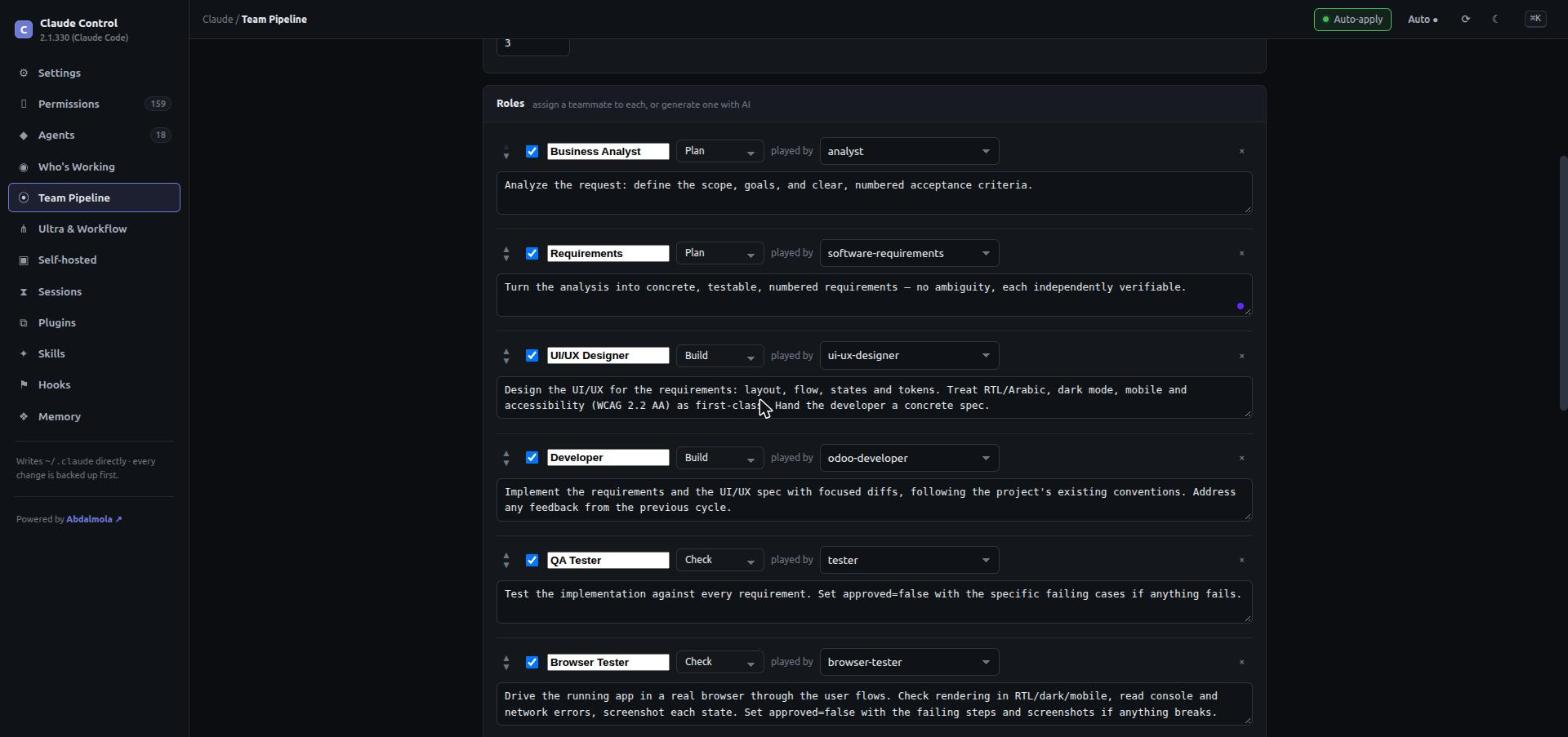
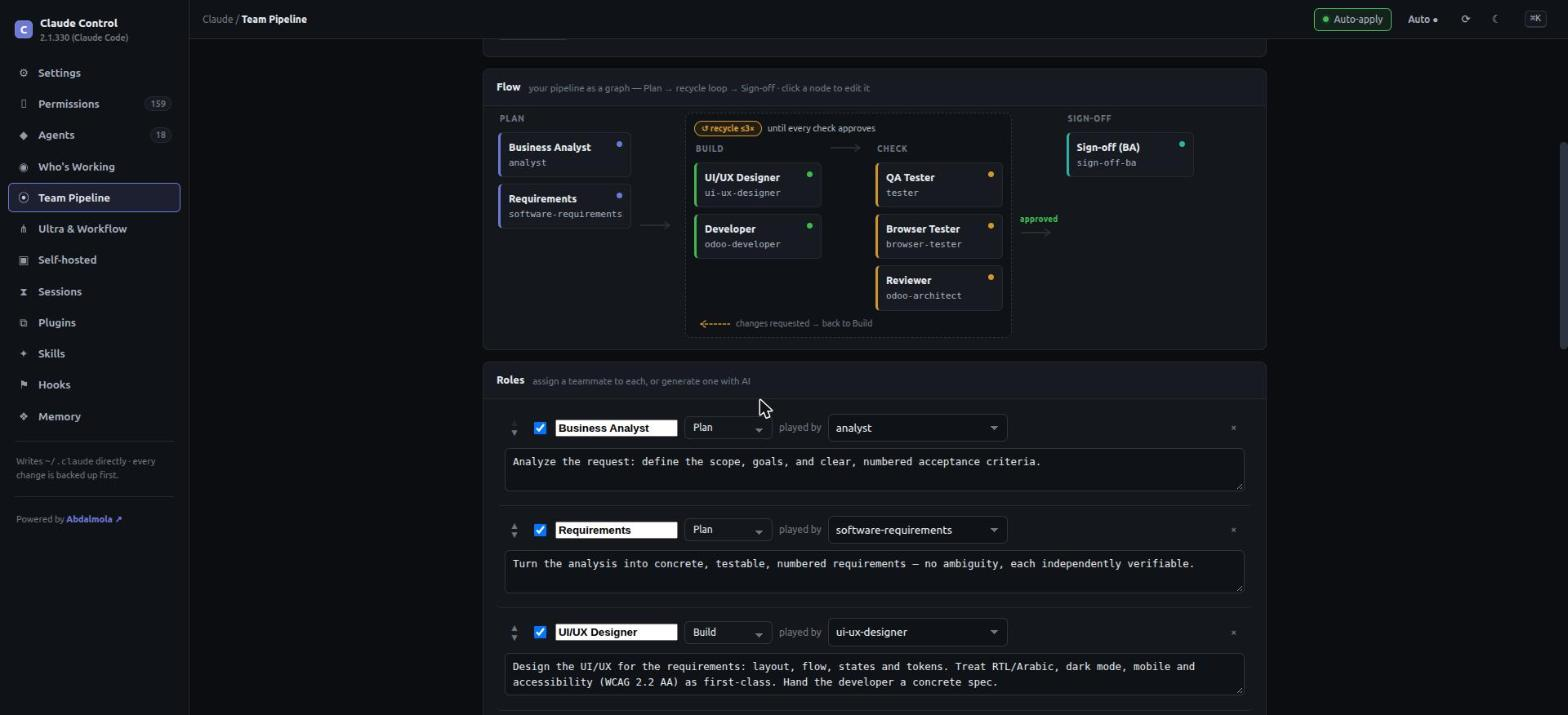
panel(team): flow-graph view of the pipeline
- new PipelineGraph component: Plan lane -> dashed recycle-loop bracketing
  Build + Check lanes with a return arrow -> Sign-off, each role a node
  colored by phase, agent shown, click a node to scroll+flash its row
- live preview above the roles editor; theme-aware tokens (light + dark)
- refresh README screenshot to the dark flow graph (odoo-engineering roster)

diff --git a/frontend/src/styles.css b/frontend/src/styles.css
@@ -25,6 +25,10 @@
   --ask-bg:    #d2992218;
   --deny:      #f05c5c;
   --deny-bg:   #f05c5c18;
+  --pg-plan:    #6e79d6;
+  --pg-build:   #3fb950;
+  --pg-check:   #d29922;
+  --pg-signoff: #2bb3a3;
   --shadow:    0 8px 30px rgba(0, 0, 0, 0.45);
   --radius:    8px;
   --radius-sm: 6px;
@@ -52,6 +56,10 @@
   --ask-bg:    #9a670012;
   --deny:      #cf222e;
   --deny-bg:   #cf222e10;
+  --pg-plan:    #4f5bd5;
+  --pg-build:   #1a7f37;
+  --pg-check:   #9a6700;
+  --pg-signoff: #0d9488;
   --shadow:    0 6px 24px rgba(20, 30, 50, 0.12);
 }
 
@@ -398,3 +406,59 @@ a.link:hover { text-decoration: underline; }
   .form-grid { grid-template-columns: 1fr; }
   .main { padding-inline: 16px; }
 }
+
+/* ------------------------------------------------------------------ *
+ * Team Pipeline — flow graph (nodes + recycle loop)
+ * ------------------------------------------------------------------ */
+.pg-wrap { overflow-x: auto; padding: 2px 2px 8px; }
+.pg-graph { display: flex; align-items: center; gap: 10px; min-width: min-content; }
+
+.pg-lane { display: flex; flex-direction: column; gap: 8px; align-self: flex-start; }
+.pg-lane-head {
+  font-size: 10px; font-weight: 700; letter-spacing: .09em; text-transform: uppercase;
+  color: var(--muted); padding-inline-start: 2px; margin-bottom: 1px;
+}
+
+.pg-node {
+  position: relative; text-align: start; cursor: pointer; font: inherit;
+  display: flex; flex-direction: column; gap: 2px;
+  background: var(--panel-2); color: var(--text);
+  border: 1px solid var(--border);
+  border-inline-start: 3px solid var(--c, var(--border-2));
+  border-radius: var(--radius-sm); padding: 8px 10px; min-width: 156px;
+  transition: border-color .12s ease, background .12s ease, transform .12s ease;
+}
+.pg-node:hover { background: var(--raised); border-color: var(--border-2); transform: translateY(-1px); }
+.pg-node:focus-visible { outline: 2px solid var(--accent); outline-offset: 1px; }
+.pg-node[data-type="plan"]    { --c: var(--pg-plan); }
+.pg-node[data-type="build"]   { --c: var(--pg-build); }
+.pg-node[data-type="check"]   { --c: var(--pg-check); }
+.pg-node[data-type="signoff"] { --c: var(--pg-signoff); }
+.pg-node-dot { position: absolute; top: 10px; inset-inline-end: 10px; width: 7px; height: 7px; border-radius: 50%; background: var(--c); }
+.pg-node-title { font-weight: 600; font-size: 12.5px; padding-inline-end: 14px; }
+.pg-node-agent { font-size: 11px; color: var(--text-2); font-family: var(--mono); }
+
+.pg-conn { display: flex; flex-direction: column; align-items: center; gap: 3px; min-width: 46px; }
+.pg-arrow { width: 44px; height: 12px; display: block; }
+.pg-arrow path { fill: none; stroke: var(--border-2); stroke-width: 1.5; stroke-linecap: round; stroke-linejoin: round; }
+.pg-arrow.dashed path { stroke-dasharray: 3 2.5; stroke: var(--ask); }
+.pg-conn-label { font-size: 10px; color: var(--allow); font-weight: 700; letter-spacing: .02em; }
+
+.pg-loop {
+  display: flex; flex-direction: column; gap: 8px; align-self: center;
+  border: 1px dashed var(--border-2); border-radius: var(--radius);
+  padding: 9px 10px; background: var(--bg-2);
+}
+.pg-loop-head { font-size: 11px; color: var(--text-2); display: flex; align-items: center; gap: 7px; flex-wrap: wrap; }
+.pg-loop-badge {
+  font-size: 10px; font-weight: 700; color: var(--ask);
+  background: var(--ask-bg); border: 1px solid var(--ask);
+  border-radius: 20px; padding: 1px 8px; white-space: nowrap;
+}
+.pg-loop-body { display: flex; align-items: flex-start; gap: 10px; }
+.pg-loop-return { display: flex; align-items: center; gap: 7px; font-size: 10.5px; color: var(--muted); }
+
+.pg-empty { padding: 16px; color: var(--muted); font-size: 12.5px; text-align: center; }
+
+.role-row { scroll-margin-block: 90px; border-radius: 6px; transition: outline-color .2s ease, background .2s ease; outline: 2px solid transparent; outline-offset: 3px; }
+.role-row.flash { outline-color: var(--accent); background: var(--accent-bg); }

diff --git a/frontend/src/components/PipelineGraph.tsx b/frontend/src/components/PipelineGraph.tsx
@@ -1,0 +1,109 @@
+import { useMemo } from "react";
+
+type PGRole = {
+  key: string;
+  title: string;
+  agent: string;
+  enabled: boolean;
+  type: "plan" | "build" | "check" | "signoff";
+  instruction: string;
+};
+
+const Arrow = ({ back = false, dashed = false }: { back?: boolean; dashed?: boolean }) => (
+  <svg viewBox="0 0 44 12" className={"pg-arrow" + (dashed ? " dashed" : "")} aria-hidden="true">
+    {back ? (
+      <path d="M44 6 H8 M14 2 L8 6 L14 10" />
+    ) : (
+      <path d="M0 6 H36 M30 2 L36 6 L30 10" />
+    )}
+  </svg>
+);
+
+export function PipelineGraph({
+  roles,
+  maxCycles,
+  agentNames,
+  onPick,
+}: {
+  roles: PGRole[];
+  maxCycles: number;
+  agentNames: string[];
+  onPick: (key: string) => void;
+}) {
+  const on = useMemo(() => roles.filter((r) => r.enabled && r.instruction.trim()), [roles]);
+  const plan = on.filter((r) => r.type === "plan");
+  const build = on.filter((r) => r.type === "build");
+  const check = on.filter((r) => r.type === "check");
+  const signoff = on.filter((r) => r.type === "signoff");
+  const hasLoop = build.length + check.length > 0;
+
+  if (!on.length) {
+    return <div className="pg-empty">Enable at least one role to see the flow.</div>;
+  }
+
+  const node = (r: PGRole) => {
+    const unknown = !!r.agent && !agentNames.includes(r.agent);
+    return (
+      <button
+        key={r.key}
+        type="button"
+        className="pg-node"
+        data-type={r.type}
+        onClick={() => onPick(r.key)}
+        title="Jump to this role in the editor below"
+      >
+        <span className="pg-node-dot" />
+        <span className="pg-node-title">{r.title}</span>
+        <span className="pg-node-agent">
+          {r.agent ? (unknown ? r.agent + " · not created" : r.agent) : "default worker"}
+        </span>
+      </button>
+    );
+  };
+
+  const lane = (label: string, items: PGRole[]) =>
+    items.length ? (
+      <div className="pg-lane">
+        <div className="pg-lane-head">{label}</div>
+        {items.map(node)}
+      </div>
+    ) : null;
+
+  const conn = (label?: string) => (
+    <div className="pg-conn">
+      {label && <span className="pg-conn-label">{label}</span>}
+      <Arrow />
+    </div>
+  );
+
+  return (
+    <div className="pg-wrap">
+      <div className="pg-graph">
+        {lane("Plan", plan)}
+        {plan.length > 0 && (hasLoop || signoff.length > 0) ? conn() : null}
+
+        {hasLoop && (
+          <div className="pg-loop">
+            <div className="pg-loop-head">
+              <span className="pg-loop-badge">↺ recycle ≤{maxCycles}×</span>
+              <span>until every check approves</span>
+            </div>
+            <div className="pg-loop-body">
+              {lane("Build", build)}
+              {build.length > 0 && check.length > 0 ? conn() : null}
+              {lane("Check", check)}
+            </div>
+            <div className="pg-loop-return">
+              <Arrow back dashed />
+              <span>changes requested → back to Build</span>
+            </div>
+          </div>
+        )}
+
+        {hasLoop && signoff.length > 0 ? conn("approved") : null}
+        {!hasLoop && plan.length > 0 && signoff.length > 0 ? conn() : null}
+        {lane("Sign-off", signoff)}
+      </div>
+    </div>
+  );
+}

diff --git a/frontend/src/pages/TeamPage.tsx b/frontend/src/pages/TeamPage.tsx
@@ -2,6 +2,7 @@ import { useCallback, useEffect, useMemo, useState } from "react";
 import { api } from "../lib/api";
 import { useStore } from "../lib/store";
 import { Card, Select, useConfirm } from "../components/ui";
+import { PipelineGraph } from "../components/PipelineGraph";
 import type { Agent, Project } from "../lib/types";
 
 type RoleType = "plan" | "build" | "check" | "signoff";
@@ -106,8 +107,15 @@ export function TeamPage() {
   const [script, setScript] = useState("");
   const [saving, setSaving] = useState(false);
   const [genRole, setGenRole] = useState<string | null>(null);
+  const [flash, setFlash] = useState<string | null>(null);
   const [wfs, setWfs] = useState<{ name: string; description: string; path: string }[]>([]);
   const { confirm, node: confirmNode } = useConfirm();
+
+  const pickRole = (key: string) => {
+    document.getElementById("pg-role-" + key)?.scrollIntoView({ behavior: "smooth", block: "center" });
+    setFlash(key);
+    window.setTimeout(() => setFlash((f) => (f === key ? null : f)), 1200);
+  };
 
   useEffect(() => { api.projects().then((r) => setProjects(r.projects)).catch(() => {}); }, []);
   useEffect(() => { api.listAgents().then((r) => setAgents(r.agents)).catch(() => {}); }, []);
@@ -239,6 +247,10 @@ export function TeamPage() {
         </div>
       </Card>
 
+      <Card title="Flow" sub="your pipeline as a graph — Plan → recycle loop → Sign-off · click a node to edit it">
+        <PipelineGraph roles={roles} maxCycles={maxCycles} agentNames={agentNames} onPick={pickRole} />
+      </Card>
+
       <Card
         title="Roles"
         sub="assign a teammate to each, or generate one with AI"
@@ -251,7 +263,7 @@ export function TeamPage() {
         {roles.map((r, i) => {
           const needs = r.enabled && (!r.agent || !agentNames.includes(r.agent));
           return (
-            <div key={r.key} style={{ padding: "12px 0", borderBottom: "1px solid var(--border)", opacity: r.enabled ? 1 : 0.5 }}>
+            <div key={r.key} id={"pg-role-" + r.key} className={"role-row" + (flash === r.key ? " flash" : "")} style={{ padding: "12px 10px", borderBottom: "1px solid var(--border)", opacity: r.enabled ? 1 : 0.5 }}>
               <div style={{ display: "flex", gap: 8, alignItems: "center", marginBottom: 8, flexWrap: "wrap" }}>
                 <span style={{ display: "inline-flex", flexDirection: "column", lineHeight: 0.8, flexShrink: 0 }}>
                   <button className="btn ghost sm" style={{ padding: "0 5px", minWidth: 0, color: i === 0 ? "var(--border)" : "var(--muted)" }} disabled={i === 0} title="Move up" onClick={() => moveRole(i, -1)}>▲</button>

diff --git a/README.md b/README.md
@@ -14,12 +14,14 @@ drafts a hook from a plain-language description (via the local `claude` CLI):
 **Team Pipeline** assembles your agent roster into a software team that runs a task
 end to end — **Plan → (Build ↔ Check loop, recycles until every check passes) →
 Sign-off** — and generates a real Claude Code *Workflow* you run from a session.
-Each role maps to a real teammate (or the default worker), roles **reorder** with
-the ↑/↓ arrows, and every saved workflow can be **re-opened and edited** — the
-builder round-trips losslessly via a sidecar, so a team is never write-once. Save
-as many distinct pipelines as you like (one file per name):
+A live **flow graph** shows the pipeline as a node diagram (phases color-coded, the
+recycle loop bracketed, each node a role → its agent) — click a node to jump
+straight to it. Each role maps to a real teammate (or the default worker), roles
+**reorder** with the ↑/↓ arrows, and every saved workflow can be **re-opened and
+edited** — the builder round-trips losslessly via a sidecar, so a team is never
+write-once. Save as many distinct pipelines as you like (one file per name):
 
-![Team Pipeline — reorderable roles mapped to your agent roster](docs/team-pipeline.png)
+![Team Pipeline — flow graph: Plan → recycle loop → Sign-off, nodes mapped to your agent roster](docs/team-pipeline.png)
 
 ## Features
 
